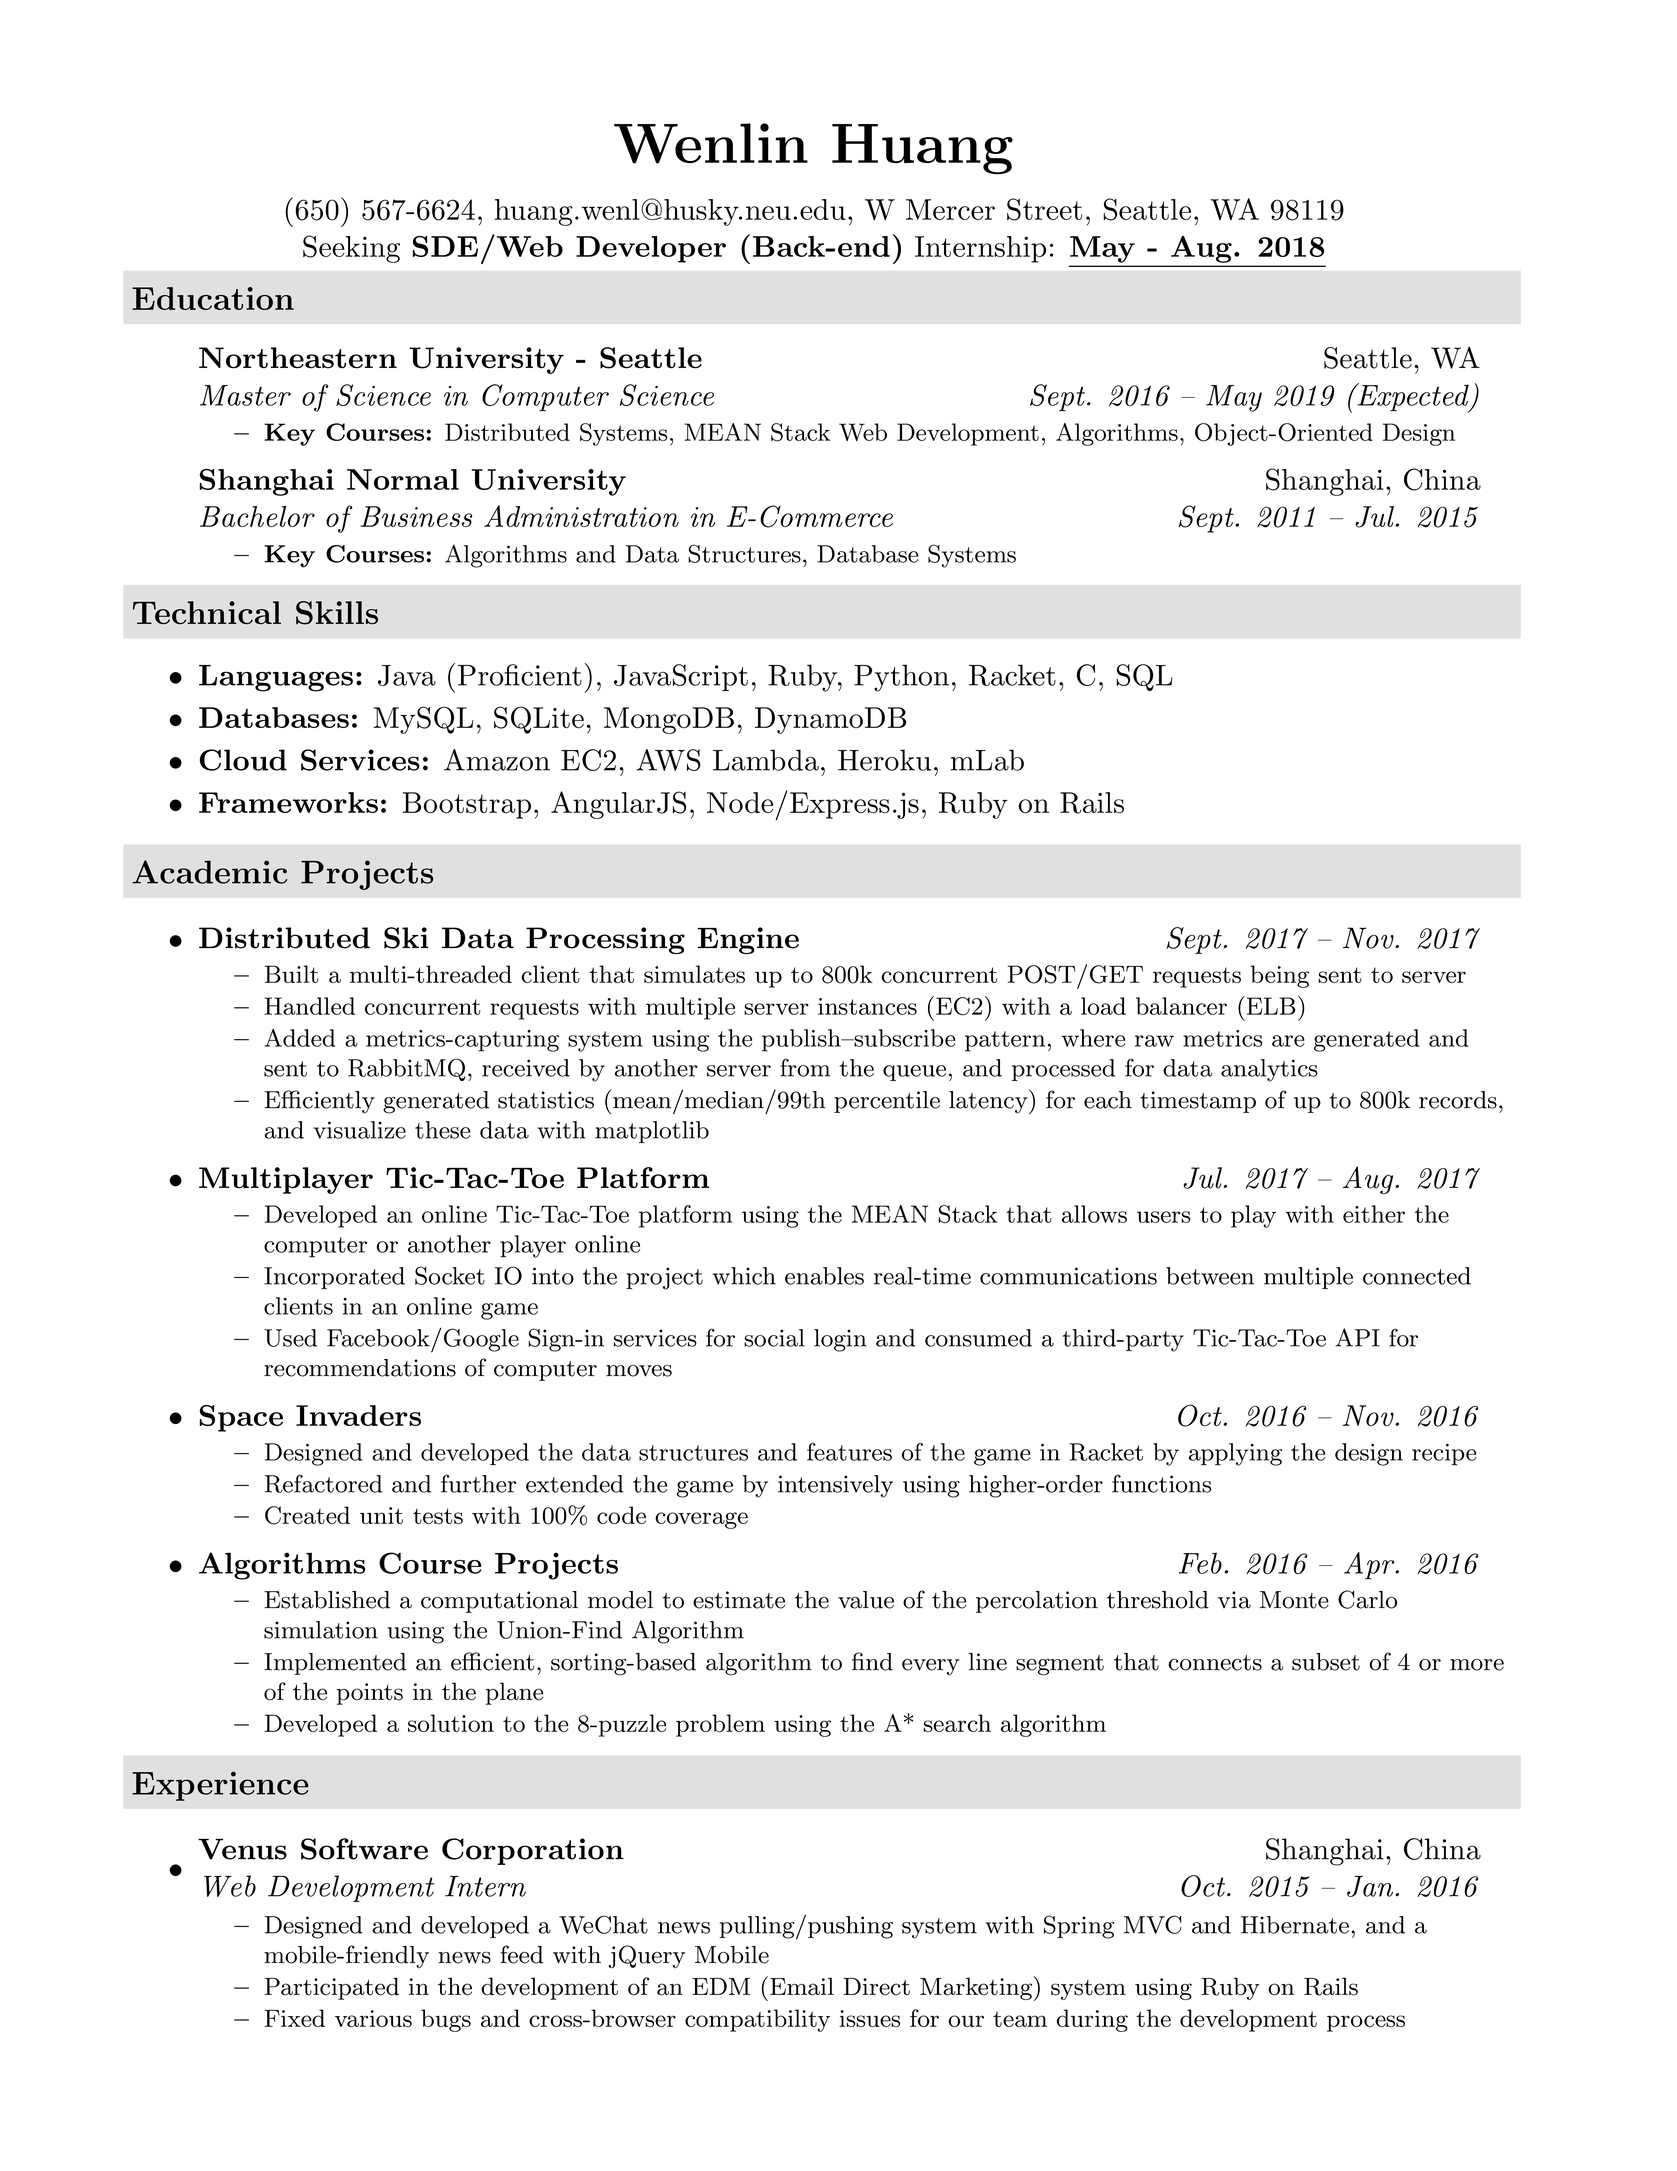
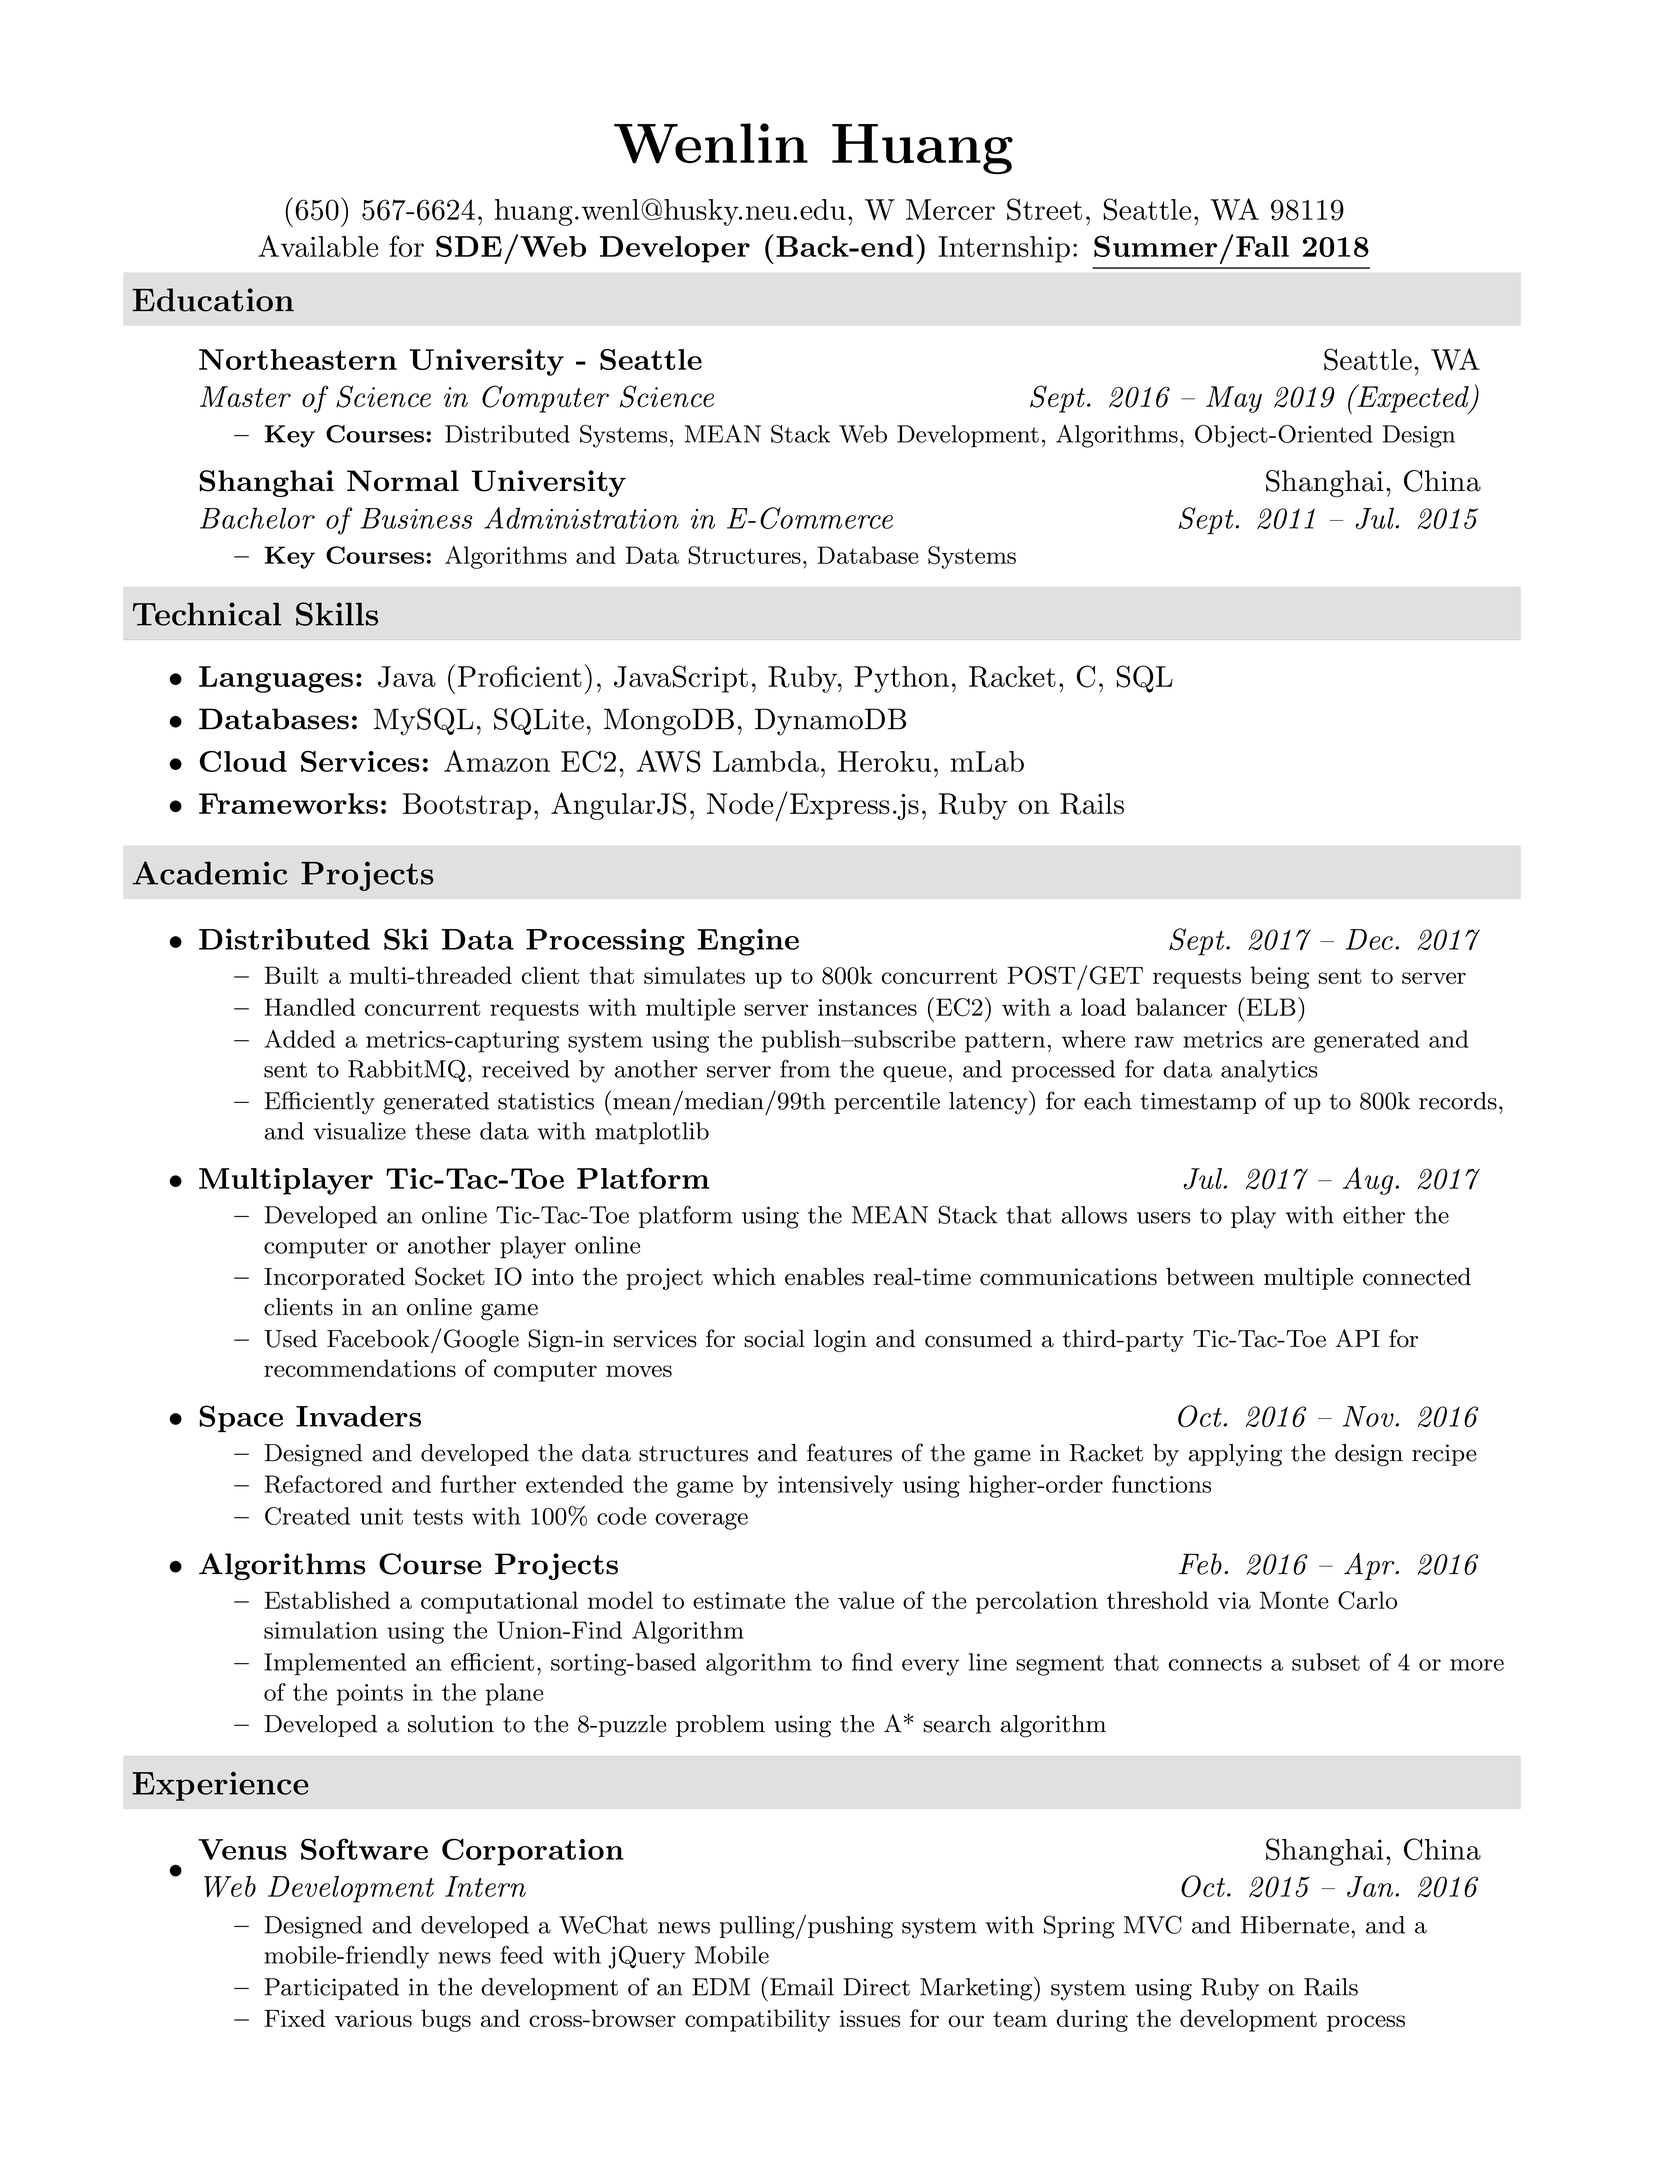
Updated time available for internships

diff --git a/src/Wenlin Huang - Software Engineer Intern.tex b/src/Wenlin Huang - Software Engineer Intern.tex
@@ -65,9 +65,9 @@ urlcolor=black
     \href {mailto:huang.wenl@husky.neu.edu} {huang.wenl@husky.neu.edu},
     {W Mercer Street, Seattle, WA 98119} \\
 
-    {Seeking
+    {Available for
     \textbf{SDE/Web Developer ({Back-end})} Internship:
-    \textbf{\underline{May - Aug. 2018}}}
+    \textbf{\underline{Summer/Fall 2018}}
 
 
     %%%%%%%%%%%%%%%%%%%%%%%%%%%%%%%%%%%%%%%%%%%%%%%%%%%%%%%%%%%%%%%%%%%%%%%%%%%%%%%%%%%%%%%%%%%%%
@@ -164,7 +164,7 @@ urlcolor=black
         {https://github.com/jeremylinlin/cs6650-scalable-distributed-systems}
         {Distributed Ski Data Processing Engine}
         }
-        {Sept. 2017 -- Nov. 2017}
+        {Sept. 2017 -- Dec. 2017}
         {}{}  % TODO: How to fix this???
         {\footnotesize
         \begin{itemize}
